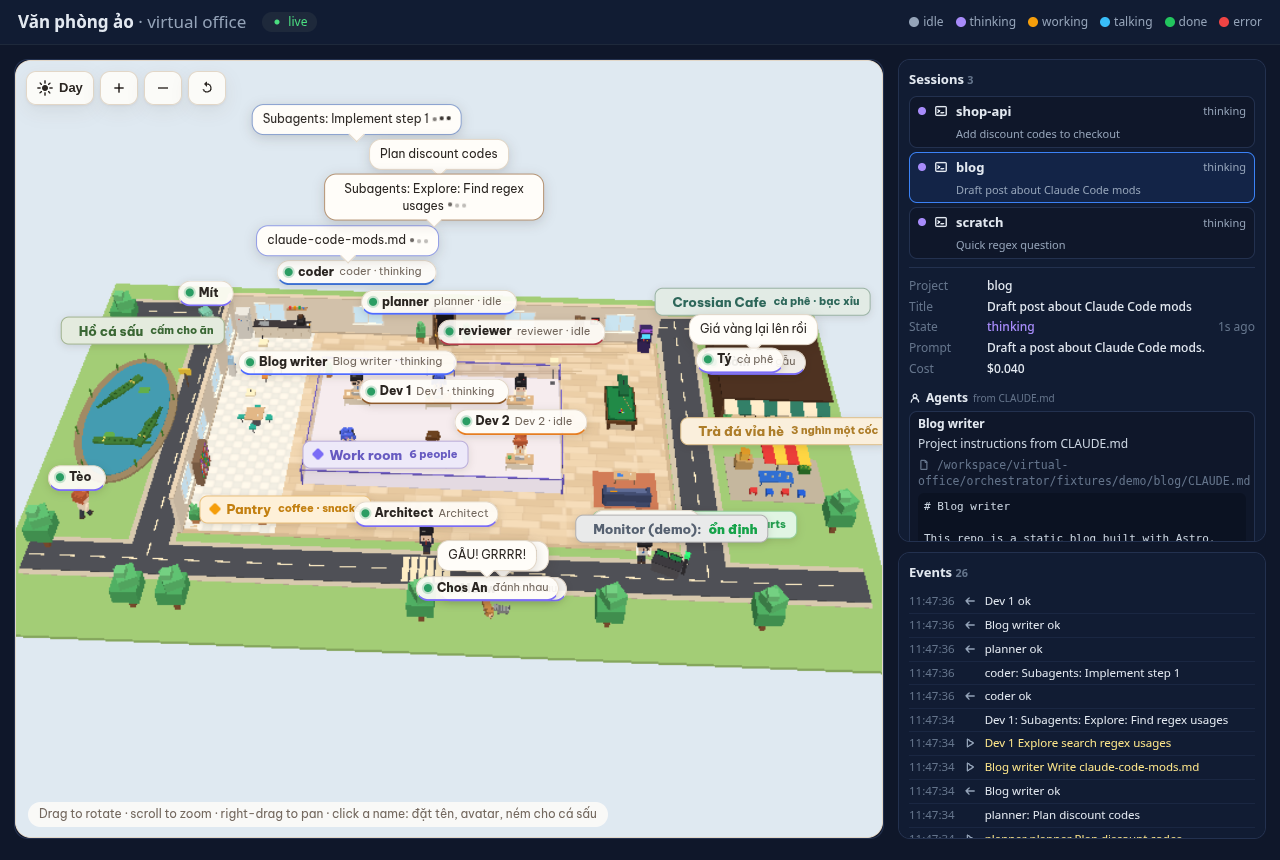
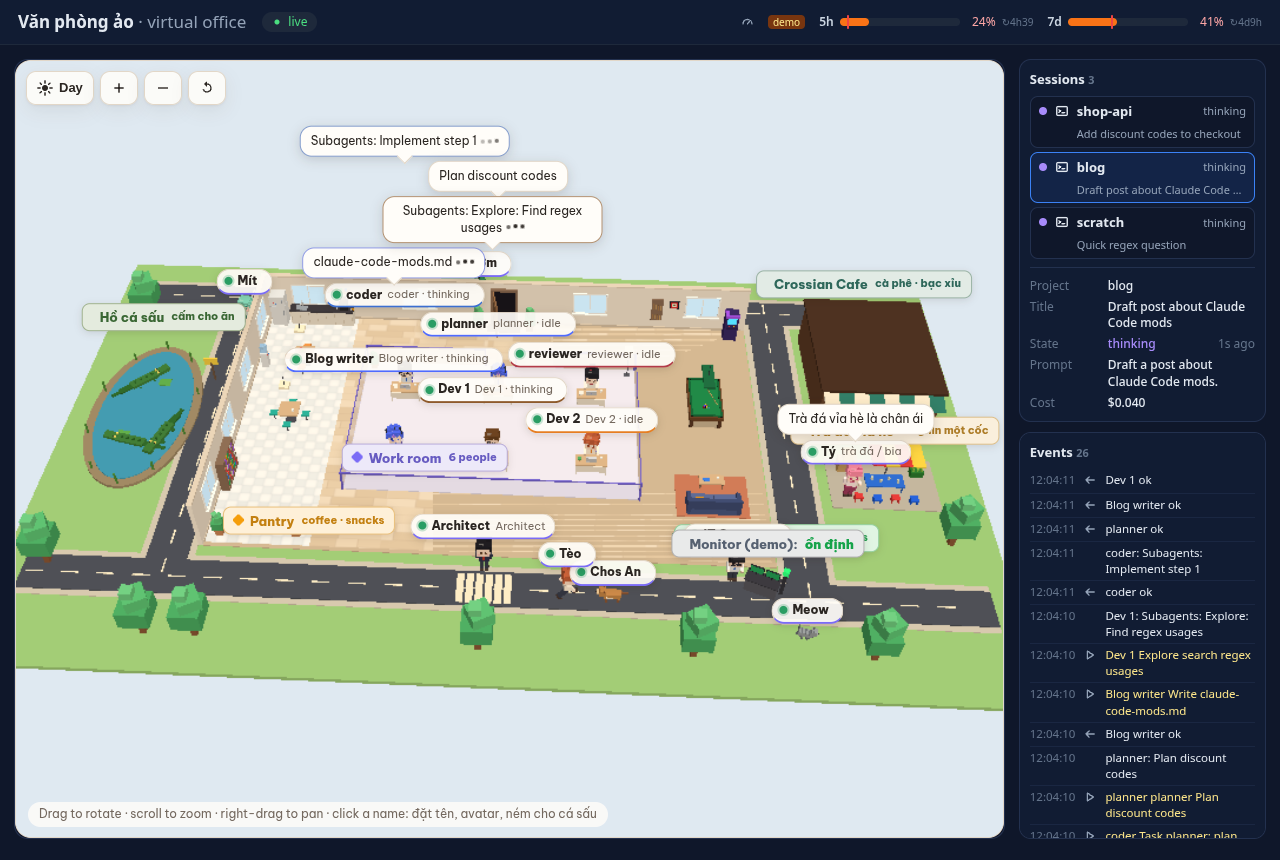
UI: Claude usage 5h/7d bars with pace marker replace the state legend (mod session.measure -> server -> web); map 80% / side 20%; hide agent profiles

diff --git a/web/src/styles.css b/web/src/styles.css
@@ -2,7 +2,10 @@
 header{display:flex;align-items:center;gap:16px;padding:10px 18px;border-bottom:1px solid #1e293b;background:#111c33}
 h1{font-size:17px;margin:0}h1 span{color:#94a3b8;font-weight:400}
 .conn{padding:2px 10px;border-radius:99px;background:#1e293b;font-size:12px}.conn-open{color:#4ade80}.conn-reconnecting,.conn-connecting{color:#fbbf24}.conn-no-token{color:#f87171}
-.legend{margin-left:auto;display:flex;gap:12px;color:#94a3b8;font-size:12px}.legend i{display:inline-block;width:10px;height:10px;border-radius:50%;margin-right:4px;vertical-align:-1px}
+.usage{margin-left:auto;display:flex;align-items:center;gap:14px;color:#94a3b8;font-size:12px}.usage-demo{font-size:10px;padding:0 5px;border-radius:4px;background:#78350f;color:#fde68a}
+.ubar{display:flex;align-items:center;gap:6px;white-space:nowrap}.ubar b{color:#cbd5e1;font-weight:600}.ubar small{color:#64748b}.ubar-num{min-width:30px;text-align:right;color:#e2e8f0;font-variant-numeric:tabular-nums}
+.ubar-track{position:relative;width:120px;height:8px;border-radius:99px;background:#1e293b;overflow:visible}.ubar-track i{position:absolute;left:0;top:0;bottom:0;border-radius:99px;background:#38bdf8}
+.ubar-pace{position:absolute;top:-3px;bottom:-3px;width:2px;margin-left:-1px;background:#ef4444;border-radius:1px}.ubar.over .ubar-track i{background:#f97316}.ubar.over .ubar-num{color:#fca5a5}
 main{display:flex;gap:14px;padding:14px;align-items:flex-start}
 .empty{padding:40px;color:#94a3b8}
 .log{flex:1;min-width:0;height:calc(100vh - 80px);overflow:auto;background:#111c33;border:1px solid #23314f;border-radius:12px;padding:8px 10px}
@@ -12,9 +15,9 @@ main{display:flex;gap:14px;padding:14px;align-items:flex-start}
 .icon{flex:none;vertical-align:-2px}
 .conn{display:flex;align-items:center;gap:6px}
 .ev i{flex:none;width:14px;color:#94a3b8;padding-top:1px}
-.stage3d{position:relative;flex:none;width:870px;height:calc(100vh - 80px);min-height:560px;border-radius:14px;overflow:hidden;border:1px solid #23314f;background:#0f172a}
+.stage3d{position:relative;flex:4 1 0;min-width:0;height:calc(100vh - 80px);min-height:560px;border-radius:14px;overflow:hidden;border:1px solid #23314f;background:#0f172a}
 /* sessions (office mod) */
-.side{flex:1;min-width:280px;display:flex;flex-direction:column;gap:10px;height:calc(100vh - 80px)}.side .log{height:auto;flex:1;min-height:160px}
+.side{flex:1 1 0;min-width:240px;display:flex;flex-direction:column;gap:10px;height:calc(100vh - 80px)}.side .log{height:auto;flex:1;min-height:160px}
 .sessions{background:#111c33;border:1px solid #23314f;border-radius:12px;padding:8px 10px;max-height:62%;overflow:auto}
 .sessions h2,.log h2{font-size:13px;margin:2px 0 8px}.sessions h2 small{color:#64748b}.sessions ul{list-style:none;margin:0;padding:0;display:flex;flex-direction:column;gap:4px}
 .sess{width:100%;display:grid;grid-template-columns:10px 16px 1fr auto;align-items:center;gap:6px;text-align:left;background:#0f172a;border:1px solid #23314f;border-radius:8px;color:inherit;font:inherit;padding:5px 8px;cursor:pointer}
@@ -26,7 +29,7 @@ main{display:flex;gap:14px;padding:14px;align-items:flex-start}
 .profile{border:1px solid #23314f;border-radius:8px;padding:4px 8px;margin:4px 0;background:#0f172a}.profile summary{cursor:pointer;display:flex;gap:6px;align-items:center}.profile p{margin:4px 0;color:#cbd5e1}
 .md{white-space:pre-wrap;word-break:break-word;margin:4px 0;padding:6px;background:#0b1222;border-radius:6px;font:11px/1.45 ui-monospace,Consolas,monospace;color:#cbd5e1;max-height:220px;overflow:auto}
 .muted{color:#64748b;font-size:11.5px}.mono{font-family:ui-monospace,Consolas,monospace}
-@media (max-width:900px){header{flex-wrap:wrap;gap:8px}.legend{display:none}main{flex-direction:column}.stage3d{width:100%;height:60vh;min-height:360px}.side{width:100%;min-width:0;height:auto}.sessions{max-height:none}.side .log{max-height:300px}}
+@media (max-width:900px){header{flex-wrap:wrap;gap:8px}.usage{margin-left:0;width:100%;gap:6px 10px;flex-wrap:wrap}.ubar-track{width:64px}main{flex-direction:column}.stage3d{flex:none;width:100%;height:78vh;min-height:420px}.side{width:100%;min-width:0;height:auto}.sessions{max-height:none}.side .log{max-height:300px}}
 .chibi{display:inline-block;border-radius:50%;overflow:hidden;line-height:0}.chibi svg{width:100%;height:100%}
 .svg-nv .mieng-mo,.svg-nv .mieng-met{display:none}.svg-nv .lap-lanh,.svg-nv .choang,.svg-nv .mo-hoi,.svg-nv .hon,.svg-nv .zzz,.svg-nv .quang-tham{opacity:0}
 .ctx{position:fixed;z-index:10;background:#0f172a;border:1px solid #334155;border-radius:8px;padding:6px;display:flex;flex-direction:column;gap:2px;min-width:170px;box-shadow:0 10px 30px #0008}

diff --git a/mod/office/hooks/register.ts b/mod/office/hooks/register.ts
@@ -35,6 +35,14 @@ export function titleFromJsonl(text: string): string | undefined {
   }
   return custom ?? ai;
 }
+/** Account-wide usage reading, built exactly like esp-claude's payload.ts. null when the engine has no limit reading yet. */
+export function usagePayload(rateLimits: Any, context: Any, cost: Any, ts: number) {
+  const rl: Any[] = Array.isArray(rateLimits) ? rateLimits : [];
+  const pick = (limits: Any[], kind: string) => { const w = limits.find((l: Any) => l?.kind === kind); return w ? { pct: w.percentUsed, resets_at: w.resetsAt ?? null } : null; };
+  const payload = { source: 'claude-code', ts, five_hour: pick(rl, 'five_hour'), seven_day: pick(rl, 'seven_day'), context_pct: context?.percent ?? null, cost_usd: cost ? Math.round(cost.usd * 100) / 100 : null };
+  const hasReading = payload.five_hour !== null || payload.seven_day !== null;
+  return hasReading ? payload : null;
+}
 
 // The engine checks this module statically: `$` is never stored, destructured, spread, returned or put in objects.
 // It is only a handler parameter, the first parameter/argument of module-level helpers, and spelled `$.noun.verb(...)`.
@@ -63,8 +71,21 @@ function send($: Any, st: State, type: string): Promise<void> {
   st.queue = st.queue.then(() => post($, st, type, body)).catch(() => {});
   return st.queue;
 }
+async function postRaw($: Any, st: State, body: string) {
+  try { await $.http.fetch(st.endpoint, { method: 'POST', headers: { 'content-type': 'application/json' }, body }); } catch { /* office not running */ }
+}
+/** Usage goes on the same ordered queue; only when there is a reading. u = { rateLimits, context, cost } (session.measure event or $.session.usage()). */
+function sendUsage($: Any, st: State, u: Any, ts: number): Promise<void> {
+  if (st.quiet || !st.loopback || !st.sid || st.ended) return st.queue;
+  const usage = usagePayload(u?.rateLimits, u?.context, u?.cost, ts);
+  if (!usage) return st.queue;
+  const body = JSON.stringify({ type: 'usage', sid: st.sid, usage });
+  st.queue = st.queue.then(() => postRaw($, st, body)).catch(() => {});
+  return st.queue;
+}
+async function readUsage($: Any, st: State) { try { await sendUsage($, st, await $.session.usage(), Date.now()); } catch { /* no usage */ } }
 function setState($: Any, st: State, s: string, t: State['tool'], type = t ? 'tool' : 'state') { st.state = s; st.tool = t; void send($, st, type); }
-async function heartbeat($: Any, st: State) { await follow($, st); await readTitle($, st); await send($, st, 'heartbeat'); }
+async function heartbeat($: Any, st: State) { await follow($, st); await readTitle($, st); await send($, st, 'heartbeat'); await readUsage($, st); }
 /** Per-session fields. The module lives as long as the process, which can move to another session (/resume, /clear) after session.end. */
 function reset(st: State, sid: string) { Object.assign(st, { sid, ended: false, transcript: '', title: undefined, sessionTitle: undefined, state: 'idle', tool: null, prompt: undefined }); }
 /** If the engine now reports another session id, start reporting that session. */
@@ -86,7 +107,7 @@ async function begin($: Any, st: State) {
   const home = (await $.env.get('USERPROFILE')) || (await $.env.get('HOME')) || '';
   const config = (await $.env.get('CLAUDE_CONFIG_DIR')) || (home ? `${home}/.claude` : '');
   if (!st.transcript) st.transcript = config && st.cwd ? transcriptPath(config, st.cwd, st.sid) : '';
-  await readTitle($, st); void send($, st, 'start');
+  await readTitle($, st); void send($, st, 'start'); await readUsage($, st);
 }
 function classicInfo(st: State, e: Any) {
   if (typeof e?.session_title === 'string' && e.session_title) st.sessionTitle = st.title = e.session_title;
@@ -133,6 +154,11 @@ export const register: Register = (on: Any, options: Any) => {
   }).catch(($: Any, e: Any, next: Any) => next(e));
   on('turn.complete', async ($: Any, e: Any, next: Any) => {
     if (e?.agentId === undefined) { await readTitle($, st); setState($, st, e?.reason === 'aborted' ? 'idle' : 'done', null); } else void send($, st, 'subagents');
+    return next(e);
+  });
+  // Raised after each turn and whenever a limit moves a whole point (same hook as usage-esp).
+  on('session.measure', async ($: Any, e: Any, next: Any) => {
+    try { void sendUsage($, st, e, Date.now()); } catch { /* never break the session */ }
     return next(e);
   });
   on('session.end', async ($: Any, e: Any, next: Any) => { await send($, st, 'end'); st.ended = true; return next(e); });

diff --git a/web/src/reducer.ts b/web/src/reducer.ts
@@ -1,9 +1,9 @@
-import type { AgentState, ItOpsStatus, OfficeEvent, SessionView } from './types';
+import type { AgentState, ItOpsStatus, OfficeEvent, SessionView, UsageReading } from './types';
 export type ConnStatus = 'no-token' | 'connecting' | 'open' | 'reconnecting';
 export interface ToolChip { callId: string; name: string; summary: string; ok?: boolean; ts: number }
 export interface AgentUI { id: string; role: string; name: string; state: AgentState; desk: { x: number; y: number }; tools: string[]; sessionId?: string; model?: string; text?: string; textTs?: number; tool?: ToolChip; result?: string; costUsd?: number; error?: string }
 export interface MessageUI { from: string; to: string; text: string; kind: 'ask' | 'reply'; ts: number }
-export interface OfficeState { conn: ConnStatus; retries: number; agents: Record<string, AgentUI>; order: string[]; messages: MessageUI[]; log: OfficeEvent[]; sessions: SessionView[]; notices: { text: string; ts: number }[]; itops?: ItOpsStatus }
+export interface OfficeState { conn: ConnStatus; retries: number; agents: Record<string, AgentUI>; order: string[]; messages: MessageUI[]; log: OfficeEvent[]; sessions: SessionView[]; notices: { text: string; ts: number }[]; itops?: ItOpsStatus; usage?: UsageReading | null }
 export type Action = { type: 'event'; e: OfficeEvent } | { type: 'conn'; status: ConnStatus; retries?: number };
 export const MAX_LOG = 200, MAX_MSG = 30, BUBBLE_MAX = 140;
 export const initialState = (conn: ConnStatus = 'connecting'): OfficeState => ({ conn, retries: 0, agents: {}, order: [], messages: [], log: [], sessions: [], notices: [] });
@@ -18,13 +18,13 @@ export function reduce(s: OfficeState, act: Action): OfficeState {
   if (act.type === 'conn') return { ...s, conn: act.status, retries: act.retries ?? (act.status === 'open' ? 0 : s.retries) };
   const e = act.e;
   if (!e || typeof e !== 'object' || typeof (e as any).t !== 'string') return s;
-  const logged = e.t === 'office.snapshot' || e.t === 'sessions.update' || e.t === 'itops.status' ? s : { ...s, log: push(s.log, e, MAX_LOG) };
+  const logged = e.t === 'office.snapshot' || e.t === 'sessions.update' || e.t === 'itops.status' || e.t === 'usage.update' ? s : { ...s, log: push(s.log, e, MAX_LOG) };
   switch (e.t) {
     case 'office.snapshot': {
       const agents: Record<string, AgentUI> = {};
       for (const v of e.agents) agents[v.id] = { ...s.agents[v.id], tools: s.agents[v.id]?.tools ?? [], id: v.id, role: v.role, name: v.name, state: v.state, desk: v.desk };
       for (const ss of e.sessions ?? []) for (const id of ss.agentIds) if (agents[id]) agents[id].sessionId = ss.sid;
-      return { ...s, agents, order: e.agents.map((v) => v.id), sessions: e.sessions ?? s.sessions, itops: e.itops ?? s.itops };
+      return { ...s, agents, order: e.agents.map((v) => v.id), sessions: e.sessions ?? s.sessions, itops: e.itops ?? s.itops, usage: e.usage ?? s.usage };
     }
     case 'agent.spawned': {
       const prev = logged.agents[e.id];
@@ -33,6 +33,7 @@ export function reduce(s: OfficeState, act: Action): OfficeState {
     }
     case 'sessions.update': return { ...s, sessions: e.sessions };
     case 'itops.status': return { ...s, itops: e.status };
+    case 'usage.update': return !s.usage || e.usage.ts >= s.usage.ts ? { ...s, usage: e.usage } : s;
     case 'agent.left': {
       if (!logged.agents[e.id]) return logged;
       const { [e.id]: _gone, ...agents } = logged.agents;

diff --git a/orchestrator/test/mod.test.ts b/orchestrator/test/mod.test.ts
@@ -1,5 +1,5 @@
 import { describe, it, expect } from 'vitest';
-import { register, toolDetail, titleFromJsonl, transcriptPath } from '../../mod/office/hooks/register.js';
+import { register, toolDetail, titleFromJsonl, transcriptPath, usagePayload } from '../../mod/office/hooks/register.js';
 // Fake engine matching the API used by usage-esp: register(on, options); on(name, ($, e, next) => ...) returns { catch }.
 function fakeEngine(env: Record<string, string> = { USERPROFILE: 'C:/Users/m' }, files: Record<string, string> = {}) {
   const h: Record<string, (...a: any[]) => any> = {}; const posts: any[] = []; let beat: (() => any) | undefined; let everyCalls = 0; let sid = '3f2a9c1e-1111-2222-3333-444455556666';
@@ -92,5 +92,19 @@ describe('office mod (usage-esp API)', () => {
     expect(toolDetail('WebFetch', { url: 'https://docs.example.com/a?token=1' })).toBe('docs.example.com');
     expect(transcriptPath('/c', 'C:\\Users\\Manh\\proj', 's')).toBe('/c/projects/C--Users-Manh-proj/s.jsonl');
     expect(titleFromJsonl('{"type":"ai-title","aiTitle":"A"}\n{"type":"custom-title","customTitle":"B"}\n{"type":"ai-title","aiTitle":"C"}')).toBe('B');
+  });
+  it('usage payload matches esp-claude payload.ts', () => {
+    const rl = [{ kind: 'five_hour', percentUsed: 37, resetsAt: '2026-11-05T15:00:00Z' }, { kind: 'seven_day', percentUsed: 12 }];
+    expect(usagePayload(rl, { percent: 44 }, { usd: 1.234 }, 99)).toEqual({ source: 'claude-code', ts: 99, five_hour: { pct: 37, resets_at: '2026-11-05T15:00:00Z' }, seven_day: { pct: 12, resets_at: null }, context_pct: 44, cost_usd: 1.23 });
+    expect(usagePayload([{ kind: 'seven_day', percentUsed: 5, resetsAt: 1 }], undefined, undefined, 1)).toMatchObject({ five_hour: null, seven_day: { pct: 5, resets_at: 1 }, context_pct: null, cost_usd: null });
+    expect(usagePayload([], { percent: 3 }, { usd: 1 }, 1)).toBeNull(); expect(usagePayload(undefined, null, null, 1)).toBeNull();
+  });
+  it('session.measure posts usage only when there is a 5h/7d reading', async () => {
+    const f = fakeEngine(); register(f.on, {}); await f.fire('session.start', { cwd: 'C:/Users/m/proj' }); await flush();
+    const n = f.posts.length;
+    expect(await f.fire('session.measure', { rateLimits: [], context: { percent: 9 } })).toEqual({ rateLimits: [], context: { percent: 9 } }); await flush();
+    expect(f.posts.length).toBe(n);
+    f.fire('session.measure', { rateLimits: [{ kind: 'five_hour', percentUsed: 61, resetsAt: 'R' }], cost: { usd: 0.5 } }); await flush();
+    const u = f.posts.at(-1); expect(u.type).toBe('usage'); expect(u.usage).toMatchObject({ source: 'claude-code', five_hour: { pct: 61, resets_at: 'R' }, seven_day: null, cost_usd: 0.5 });
   });
 });

diff --git a/orchestrator/src/cli.ts b/orchestrator/src/cli.ts
@@ -6,6 +6,7 @@ import { SessionTracker } from './sessions.js';
 import { OfficeServer, newToken } from './server.js';
 import { JsonlLog } from './log.js';
 import { simulate } from './simulate.js';
+import { UsageStore } from './usage.js';
 import { ItOpsMonitor, itopsConfigFromEnv } from './itops.js';
 const here = dirname(fileURLToPath(import.meta.url));
 export interface StartOpts { demo: boolean; port: number; logDir: string; printToken: boolean; webDir: string; stepMs: number; userAgentsDir?: string; prometheus?: string }
@@ -28,7 +29,8 @@ export async function start(o: StartOpts) {
   const token = newToken();
   let server!: OfficeServer;
   const itops = new ItOpsMonitor(itopsConfigFromEnv(process.env, o.demo, o.prometheus), (status) => server?.broadcast({ t: 'itops.status', status, ts: Date.now() }));
-  server = new OfficeServer(token, () => ({ ...tracker.snapshot(), itops: itops.status }) as any, { onEvent: (p) => tracker.ingest(p), staticDir: existsSync(o.webDir) ? o.webDir : undefined });
+  const usage = new UsageStore(); usage.onChange = (u) => server?.broadcast({ t: 'usage.update', usage: u, ts: Date.now() });
+  server = new OfficeServer(token, () => ({ ...tracker.snapshot(), itops: itops.status, usage: usage.latest }) as any, { onEvent: (p) => ((p as any)?.type === 'usage' ? usage.accept(p) : tracker.ingest(p)), staticDir: existsSync(o.webDir) ? o.webDir : undefined });
   const log = new JsonlLog(join(o.logDir, `run-${new Date().toISOString().replace(/[:.]/g, '-')}.jsonl`));
   tracker.on((e) => { if (e.t !== 'sessions.update') log.write(e); server.broadcast(e); });
   const sweep = setInterval(() => tracker.sweep(), 5000); sweep.unref();
@@ -42,7 +44,7 @@ export async function start(o: StartOpts) {
   console.error(`[office] UI: ${o.printToken ? uiUrl : uiUrl.replace(/#token=.*/, '#token=[REDACTED]')} (full URL in orchestrator/.run/ui-url.txt, mode 600)`);
   if (o.demo) void simulate(`http://127.0.0.1:${port}/event`, { stepMs: o.stepMs });
   const close = async () => { clearInterval(sweep); itops.stop(); await server.close(); };
-  return { port, token, tracker, server, close, logPath: log.path };
+  return { port, token, tracker, server, usage, close, logPath: log.path };
 }
 const isMain = process.argv[1] && resolve(process.argv[1]) === fileURLToPath(import.meta.url);
 if (isMain) {

diff --git a/web/src/SessionPanel.tsx b/web/src/SessionPanel.tsx
@@ -1,9 +1,9 @@
 import type { OfficeState } from './reducer';
-import type { AgentProfile, SessionView } from './types';
+import type { SessionView } from './types';
 import { STATE_COLORS } from './layout';
-import { SOURCE_LABEL, STATE_KEY, STATE_LABEL, activeSubagents, agoLabel } from './sessionView';
-import { IconBranch, IconFile, IconTerminal, IconTool, IconUser } from './icons';
-/** Lists every active session the `office` mod reported; the selected one shows its agent profiles + live activity. */
+import { STATE_KEY, STATE_LABEL, activeSubagents, agoLabel } from './sessionView';
+import { IconBranch, IconTerminal, IconTool } from './icons';
+/** Lists every active session the `office` mod reported; the selected one shows its live activity (agent profiles are not shown). */
 export function SessionPanel({ s, selected, onSelect, now }: { s: OfficeState; selected?: string; onSelect: (sid: string) => void; now: number }) {
   const cur = s.sessions.find((x) => x.sid === selected);
   return (
@@ -31,19 +31,6 @@ function Detail({ x, now }: { x: SessionView; now: number }) {
       {x.prompt && <div className="kv"><span>Prompt</span><b>{x.prompt}</b></div>}
       {subs.length > 0 && <div className="kv"><span>Subagents</span><b>{subs.map((a, i) => <span key={i} className="tag"><IconBranch size={12} />{a.type ?? 'agent'}{a.description ? `: ${a.description}` : ''}</span>)}</b></div>}
       {x.costUsd != null && <div className="kv"><span>Cost</span><b>${x.costUsd.toFixed(3)}</b></div>}
-      <h3><IconUser size={12} /> Agents <small>from {SOURCE_LABEL[x.source]}</small></h3>
-      {x.profiles.map((p, i) => <Profile key={p.name + i} p={p} open={i === 0} />)}
     </div>
-  );
-}
-function Profile({ p, open }: { p: AgentProfile; open: boolean }) {
-  return (
-    <details className="profile" open={open} data-testid="profile">
-      <summary><b>{p.name}</b>{p.model && <span className="tag">{p.model}</span>}{p.scope === 'user' && <span className="tag">user</span>}</summary>
-      {p.description && <p>{p.description}</p>}
-      {p.tools.length > 0 && <div className="tools">{p.tools.map((t) => <span key={t} className="tag">{t}</span>)}</div>}
-      {p.file && <div className="muted mono"><IconFile size={12} /> {p.file}</div>}
-      {p.body && <pre className="md">{p.body}</pre>}
-    </details>
   );
 }

diff --git a/web/test/usage.test.ts b/web/test/usage.test.ts
@@ -1,0 +1,27 @@
+import { describe, it, expect } from 'vitest';
+import { WINDOW_MS, overPace, paceFraction, resetLabel, resetMs } from '../src/usage';
+import { reduce, initialState } from '../src/reducer';
+const now = Date.parse('2026-11-05T12:00:00Z');
+describe('usage pace marker', () => {
+  it('is the elapsed share of the window, from resets_at', () => {
+    expect(paceFraction(new Date(now + 2.5 * 3600e3).toISOString(), WINDOW_MS.five_hour, now)).toBeCloseTo(0.5);
+    expect(paceFraction(new Date(now + 5 * 3600e3).toISOString(), WINDOW_MS.five_hour, now)).toBeCloseTo(0);
+    expect(paceFraction((now + 3.5 * 86400e3) / 1000, WINDOW_MS.seven_day, now)).toBeCloseTo(0.5); // epoch seconds
+    expect(paceFraction(now - 1000, WINDOW_MS.five_hour, now)).toBe(1); // already reset: clamped
+    expect(paceFraction(now + 9 * 86400e3, WINDOW_MS.seven_day, now)).toBe(0);
+    expect(paceFraction(null, WINDOW_MS.five_hour, now)).toBeNull(); expect(paceFraction('bogus', WINDOW_MS.five_hour, now)).toBeNull();
+  });
+  it('over pace when used share exceeds elapsed share', () => {
+    expect(overPace(60, 0.5)).toBe(true); expect(overPace(40, 0.5)).toBe(false); expect(overPace(99, null)).toBe(false);
+  });
+  it('resets_at formats and compact labels', () => {
+    expect(resetMs(String(now))).toBe(now); expect(resetMs(now / 1000)).toBe(now);
+    expect(resetLabel(now + 47 * 60e3, now)).toBe('47m'); expect(resetLabel(now + 125 * 60e3, now)).toBe('2h05'); expect(resetLabel(now + (3 * 24 + 4) * 3600e3, now)).toBe('3d4h');
+  });
+  it('reducer keeps the newest reading', () => {
+    const r = (ts: number, pct: number) => ({ t: 'usage.update' as const, ts, usage: { source: 'claude-code' as const, ts, five_hour: { pct, resets_at: null }, seven_day: null, context_pct: null, cost_usd: null } });
+    let s = reduce(initialState('open'), { type: 'event', e: r(10, 20) });
+    s = reduce(s, { type: 'event', e: r(5, 90) }); expect(s.usage?.five_hour?.pct).toBe(20);
+    s = reduce(s, { type: 'event', e: r(11, 30) }); expect(s.usage?.five_hour?.pct).toBe(30); expect(s.log).toHaveLength(0);
+  });
+});

diff --git a/web/src/UsageBars.tsx b/web/src/UsageBars.tsx
@@ -1,0 +1,25 @@
+import type { UsageReading, UsageWindow } from './types';
+import { WINDOW_MS, overPace, paceFraction, resetLabel } from './usage';
+const IconGauge = () => <svg className="icon" width={13} height={13} viewBox="0 0 16 16" fill="none" stroke="currentColor" strokeWidth={1.6} strokeLinecap="round" aria-hidden><path d="M2.5 11a5.5 5.5 0 1 1 11 0" /><path d="M8 11l2.6-3.4" /></svg>;
+/** Header: Claude usage, 5h and 7d bars, each with a red pace line (share of the window already elapsed). */
+export function UsageBars({ u, now }: { u?: UsageReading | null; now: number }) {
+  if (!u) return <div className="usage" data-testid="usage"><IconGauge /><span className="muted">Claude usage: chưa có số liệu</span></div>;
+  return (
+    <div className="usage" data-testid="usage" title={u.cost_usd != null ? `cost $${u.cost_usd}` : undefined}>
+      <IconGauge />{u.source === 'demo' && <span className="usage-demo">demo</span>}
+      <Bar label="5h" w={u.five_hour} win={WINDOW_MS.five_hour} now={now} />
+      <Bar label="7d" w={u.seven_day} win={WINDOW_MS.seven_day} now={now} />
+    </div>
+  );
+}
+function Bar({ label, w, win, now }: { label: string; w: UsageWindow | null; win: number; now: number }) {
+  if (!w) return <div className="ubar" data-testid={`usage-${label}`}><b>{label}</b><span className="muted">—</span></div>;
+  const pace = paceFraction(w.resets_at, win, now), over = overPace(w.pct, pace), r = resetLabel(w.resets_at, now);
+  return (
+    <div className={`ubar${over ? ' over' : ''}`} data-testid={`usage-${label}`} title={pace !== null ? `${label}: ${w.pct}% used · pace ${Math.round(pace * 100)}% · resets in ${r}` : undefined}>
+      <b>{label}</b>
+      <span className="ubar-track"><i style={{ width: `${Math.min(100, w.pct)}%` }} />{pace !== null && <em className="ubar-pace" data-testid={`pace-${label}`} style={{ left: `${pace * 100}%` }} />}</span>
+      <span className="ubar-num">{Math.round(w.pct)}%</span>{r && <small>↻{r}</small>}
+    </div>
+  );
+}

diff --git a/orchestrator/src/simulate.ts b/orchestrator/src/simulate.ts
@@ -33,13 +33,21 @@ export const DEMO_SESSIONS = [
 async function post(endpoint: string, ev: Ev) {
   try { await fetch(endpoint, { method: 'POST', headers: { 'content-type': 'application/json' }, body: JSON.stringify(ev) }); } catch { /* server not up yet */ }
 }
+/** Labelled demo usage: 5h climbs and resets, 7d creeps; resets_at are real times so the pace marker moves. */
+export function demoUsage(now: number, step: number) {
+  const H5 = 5 * 3600e3, D7 = 7 * 86400e3, fiveStart = now - ((step * 7 * 60e3) % H5), weekStart = now - 2.6 * 86400e3;
+  return { type: 'usage', sid: 'demo-usage', usage: { source: 'demo', ts: now, five_hour: { pct: Math.min(100, 18 + (step % 40) * 2), resets_at: new Date(fiveStart + H5).toISOString() },
+    seven_day: { pct: 41 + Math.floor(step / 10), resets_at: new Date(weekStart + D7).toISOString() }, context_pct: 35, cost_usd: 1.23 } };
+}
 /** Posts start events, then steps round-robin every stepMs. loops = how many passes over the steps (Infinity = forever). */
 export async function simulate(endpoint: string, o: { stepMs?: number; loops?: number; end?: boolean } = {}) {
   const stepMs = o.stepMs ?? 1500, loops = o.loops ?? Infinity;
+  await post(endpoint, demoUsage(Date.now(), 0));
   for (const s of DEMO_SESSIONS) await post(endpoint, { type: 'start', sid: s.sid, project: s.project, cwd: s.cwd, title: s.title, transcript: `(demo)/${s.sid}.jsonl` });
   const longest = Math.max(...DEMO_SESSIONS.map((s) => s.steps.length));
   for (let loop = 0; loop < loops; loop++) for (let i = 0; i < longest; i++) {
     await new Promise((r) => setTimeout(r, stepMs));
+    await post(endpoint, demoUsage(Date.now(), loop * longest + i));
     for (const s of DEMO_SESSIONS) { const st = s.steps[i % s.steps.length]; await post(endpoint, { type: st.tool ? 'tool' : 'state', sid: s.sid, tool: null, ...st, costUsd: +(0.01 * (loop * longest + i + 1)).toFixed(3) }); }
   }
   if (o.end) for (const s of DEMO_SESSIONS) await post(endpoint, { type: 'end', sid: s.sid });

diff --git a/orchestrator/test/usage.test.ts b/orchestrator/test/usage.test.ts
@@ -1,0 +1,19 @@
+import { describe, it, expect } from 'vitest';
+import { UsageStore, parseUsage } from '../src/usage.js';
+import { demoUsage } from '../src/simulate.js';
+const body = (ts: number, five: unknown, seven: unknown = null) => ({ type: 'usage', sid: 's', usage: { source: 'claude-code', ts, five_hour: five, seven_day: seven, context_pct: 12, cost_usd: 0.5 } });
+describe('usage store', () => {
+  it('accepts esp-claude payloads; needs a 5h or 7d reading', () => {
+    expect(parseUsage(body(1, { pct: 42, resets_at: '2026-11-05T15:00:00Z' }))?.five_hour).toEqual({ pct: 42, resets_at: '2026-11-05T15:00:00Z' });
+    expect(parseUsage(body(1, null, null))).toBeNull(); expect(parseUsage(body(1, { pct: 'x' }))).toBeNull(); expect(parseUsage({ type: 'usage' })).toBeNull();
+    expect(parseUsage({ ...body(1, { pct: 1, resets_at: null }), usage: { ...body(1, { pct: 1 }).usage, source: 'evil' } })?.source).toBe('claude-code');
+  });
+  it('account-wide: newest ts wins, change callback only on accept', () => {
+    const s = new UsageStore(); const seen: number[] = []; s.onChange = (u) => seen.push(u.ts);
+    expect(s.accept(body(10, { pct: 20, resets_at: null }))).toBe(true);
+    expect(s.accept(body(5, { pct: 90, resets_at: null }))).toBe(true); expect(s.latest?.five_hour?.pct).toBe(20);
+    expect(s.accept(body(12, null, { pct: 50, resets_at: 1 }))).toBe(true); expect(s.latest?.seven_day?.pct).toBe(50);
+    expect(s.accept(body(13, null))).toBe(false); expect(seen).toEqual([10, 12]);
+  });
+  it('demo usage is labelled demo', () => { const u = parseUsage(demoUsage(Date.now(), 3)); expect(u?.source).toBe('demo'); expect(u?.five_hour?.pct).toBe(24); });
+});

diff --git a/orchestrator/src/usage.ts b/orchestrator/src/usage.ts
@@ -1,0 +1,26 @@
+// Account-wide Claude usage (5h / 7d limits) as reported by the `office` mod (esp-claude payload shape). Newest ts wins.
+import type { UsageReading, UsageWindow } from './types.js';
+const num = (v: unknown) => (typeof v === 'number' && Number.isFinite(v) ? v : null);
+function win(w: any): UsageWindow | null {
+  if (!w || typeof w !== 'object') return null;
+  const pct = num(w.pct); if (pct === null) return null;
+  const r = w.resets_at; const resets_at = typeof r === 'string' ? r.slice(0, 40) : num(r);
+  return { pct: Math.max(0, Math.min(1000, pct)), resets_at };
+}
+/** Validates a POSTed { type: 'usage', usage } body. Returns null when it has no 5h/7d reading. */
+export function parseUsage(p: any): UsageReading | null {
+  const u = p?.usage; if (!u || typeof u !== 'object') return null;
+  const ts = num(u.ts); if (ts === null) return null;
+  const r: UsageReading = { source: u.source === 'demo' ? 'demo' : 'claude-code', ts, five_hour: win(u.five_hour), seven_day: win(u.seven_day), context_pct: num(u.context_pct), cost_usd: num(u.cost_usd) };
+  return r.five_hour || r.seven_day ? r : null;
+}
+export class UsageStore {
+  latest: UsageReading | null = null;
+  /** true when accepted (valid and not older than the stored reading). */
+  accept(p: unknown): boolean {
+    const r = parseUsage(p); if (!r) return false;
+    if (this.latest && r.ts < this.latest.ts) return true; // stale but well-formed: ack, keep newer
+    this.latest = r; this.onChange?.(r); return true;
+  }
+  onChange?: (r: UsageReading) => void;
+}

diff --git a/web/src/usage.ts b/web/src/usage.ts
@@ -1,0 +1,24 @@
+// Pure helpers for the Claude usage bars in the header (5h and 7d limits).
+import type { UsageWindow } from './types';
+export const WINDOW_MS = { five_hour: 5 * 3600e3, seven_day: 7 * 86400e3 } as const;
+/** resets_at as ms epoch: ISO string, epoch seconds or epoch ms. */
+export function resetMs(r: UsageWindow['resets_at']): number | null {
+  if (r == null) return null;
+  if (typeof r === 'number') return Number.isFinite(r) ? (r < 1e12 ? r * 1000 : r) : null;
+  const n = Number(r); if (r.trim() && Number.isFinite(n)) return resetMs(n);
+  const t = Date.parse(r); return Number.isFinite(t) ? t : null;
+}
+/** Pace marker: fraction of the window already elapsed (0..1). Usage past it means burning faster than the limit sustains. */
+export function paceFraction(resetsAt: UsageWindow['resets_at'], windowMs: number, now: number): number | null {
+  const end = resetMs(resetsAt); if (end === null) return null;
+  return Math.max(0, Math.min(1, 1 - (end - now) / windowMs));
+}
+/** Compact time until reset: "2h05", "47m", "3d4h". */
+export function resetLabel(resetsAt: UsageWindow['resets_at'], now: number): string {
+  const end = resetMs(resetsAt); if (end === null) return '';
+  const m = Math.max(0, Math.round((end - now) / 60e3));
+  if (m < 60) return `${m}m`;
+  if (m < 24 * 60) return `${Math.floor(m / 60)}h${String(m % 60).padStart(2, '0')}`;
+  return `${Math.floor(m / 1440)}d${Math.floor((m % 1440) / 60)}h`;
+}
+export const overPace = (pct: number, pace: number | null) => pace !== null && pct / 100 > pace;
